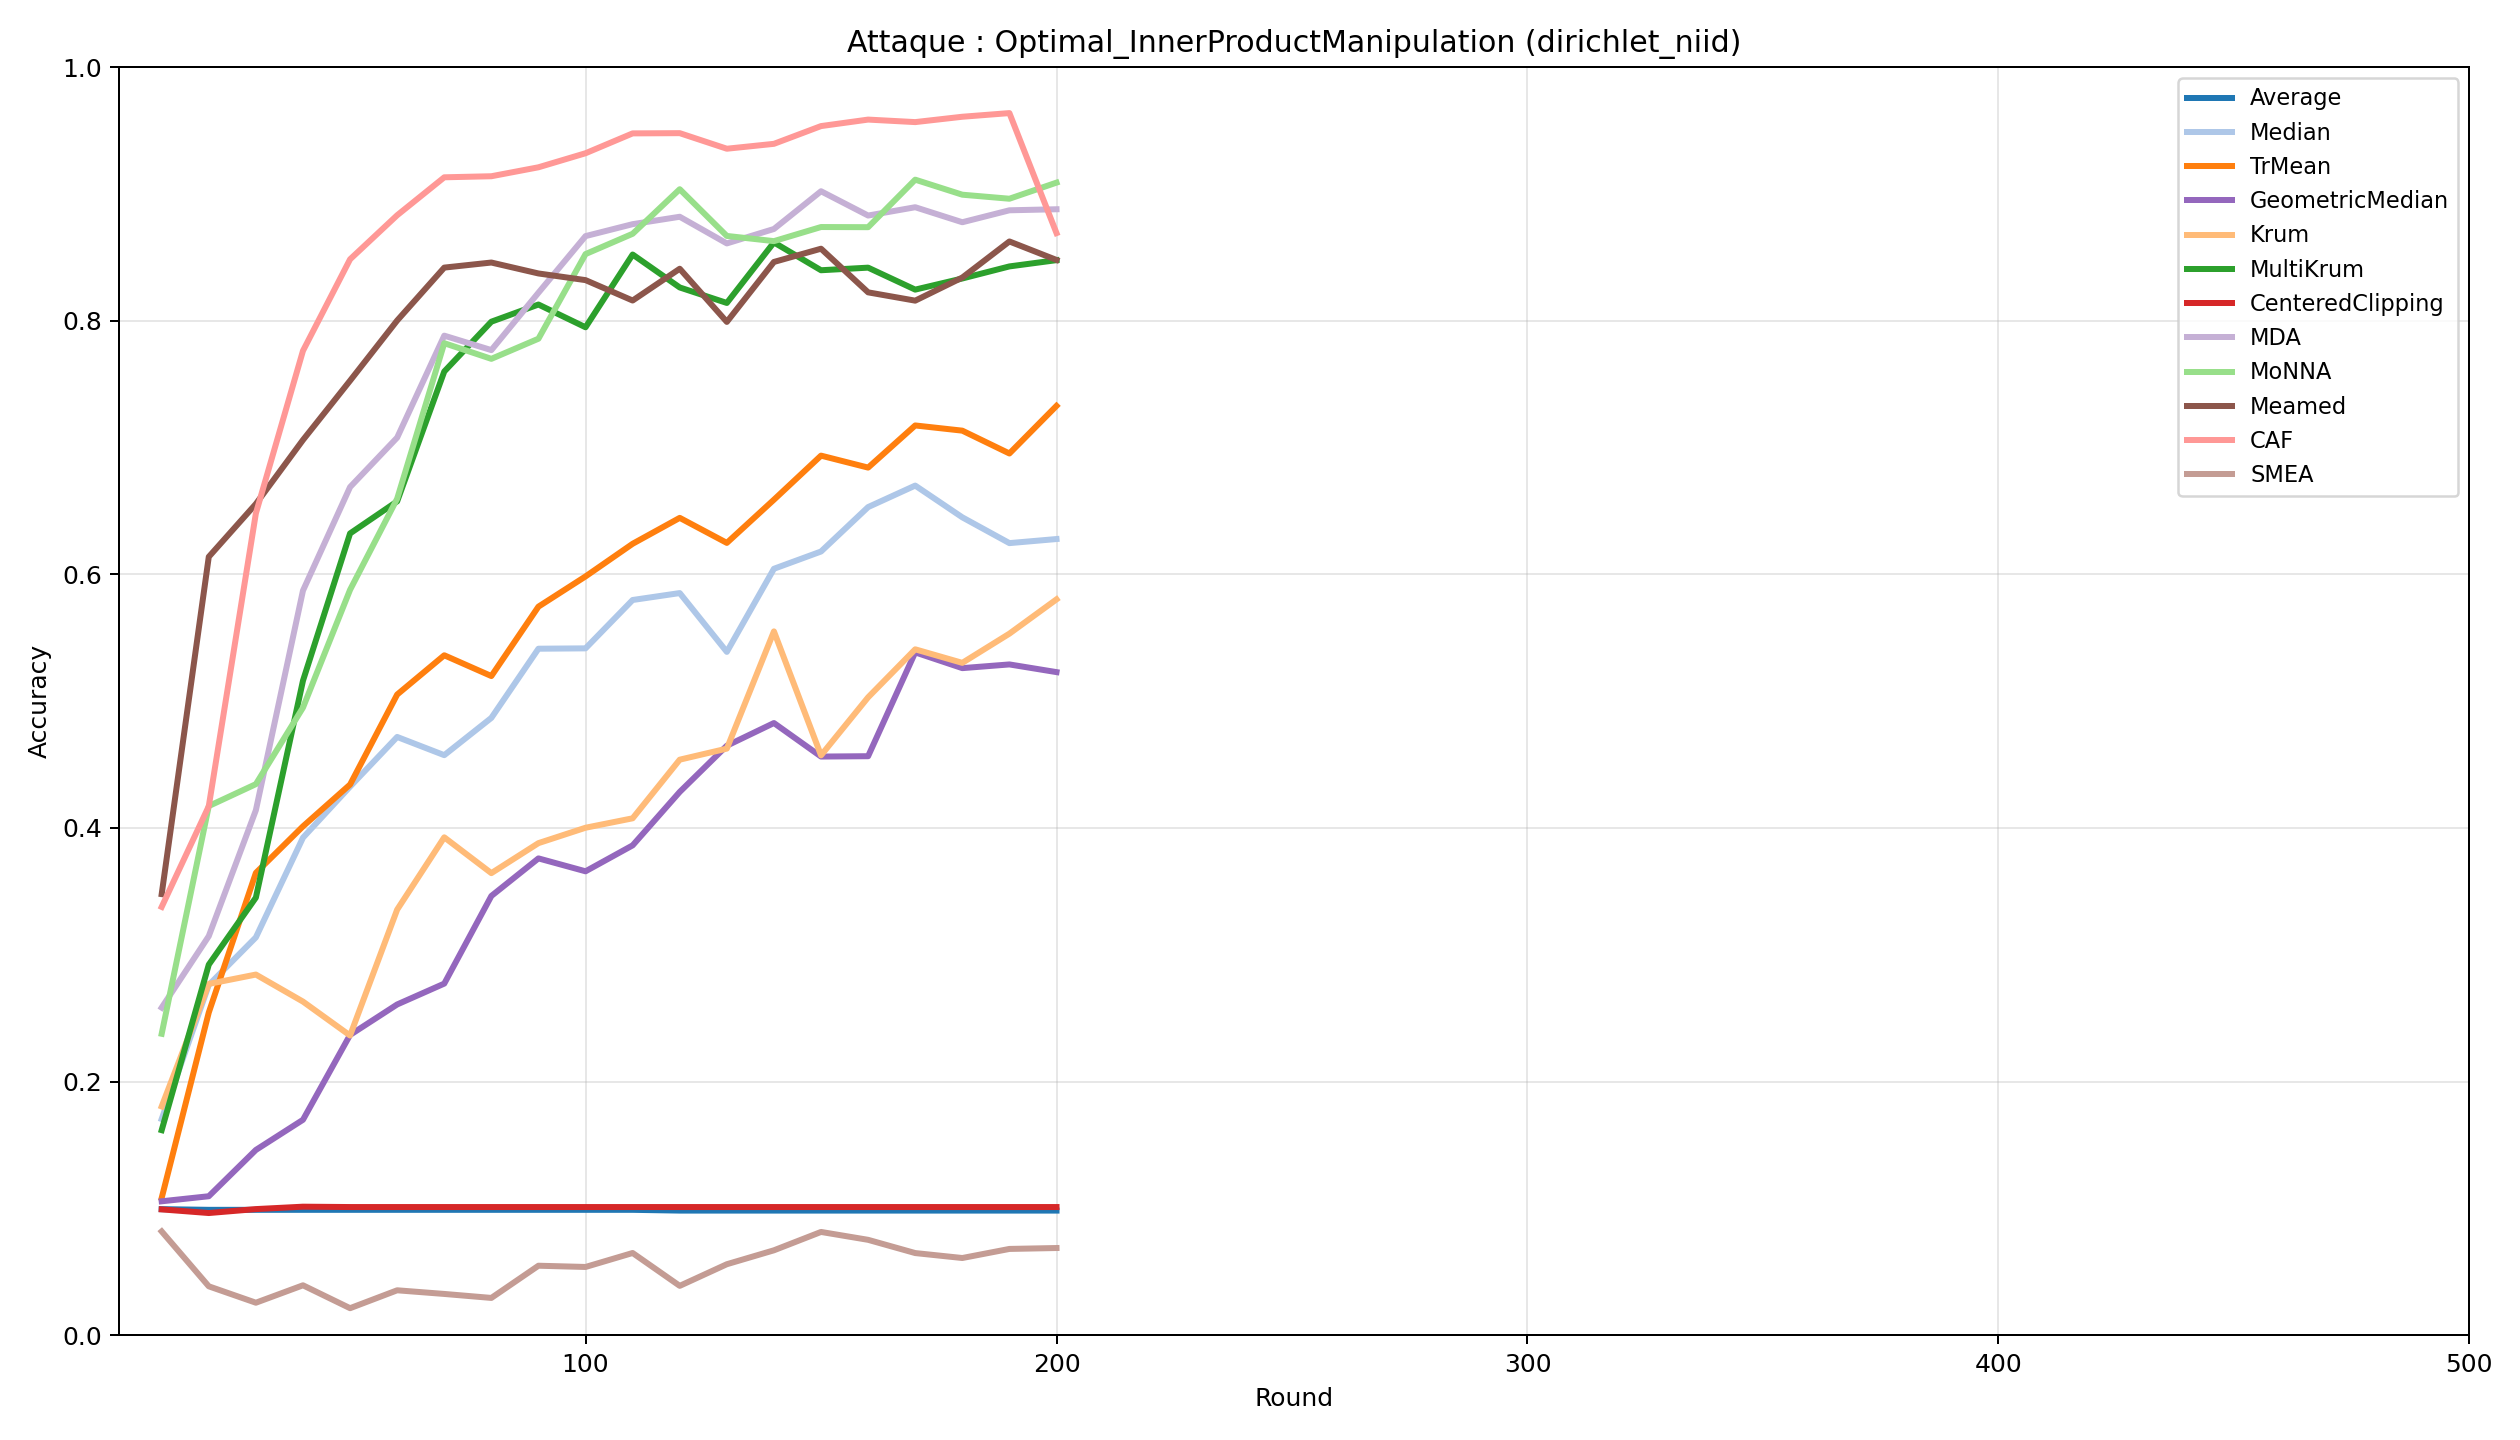
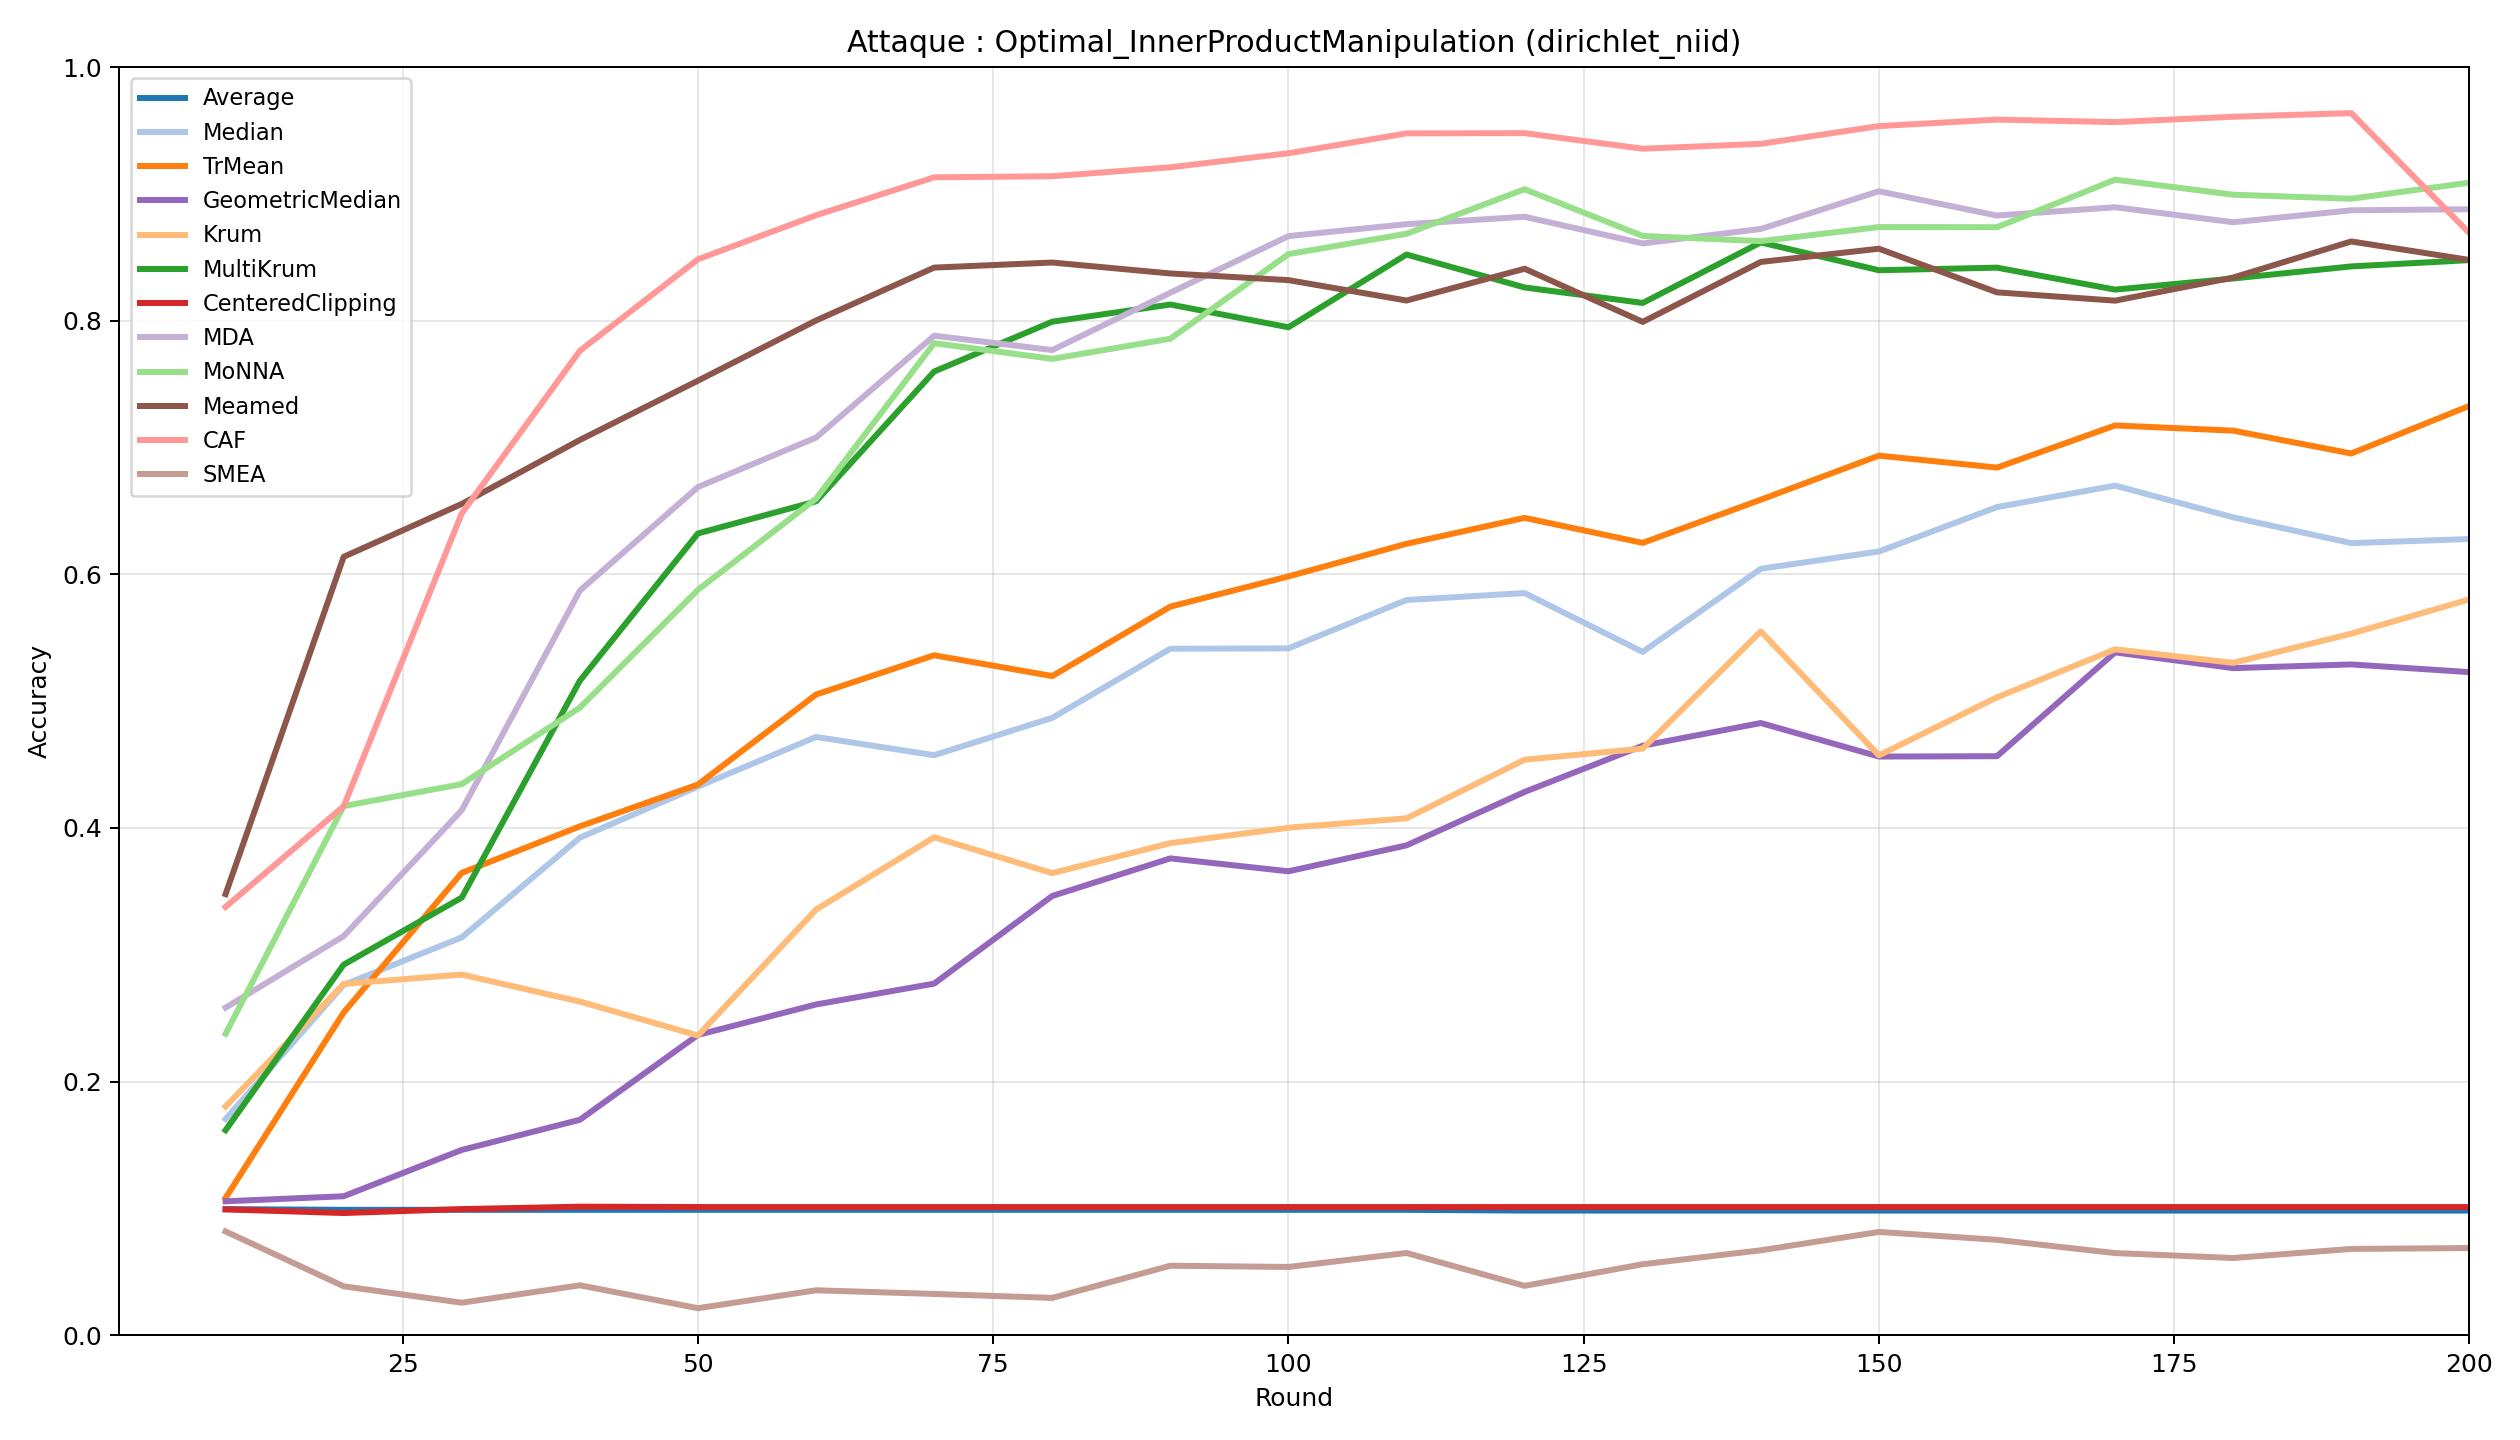
opt ipm en non iid sur 5 runs

diff --git a/code/comparer_attaques_agregateurs.py b/code/comparer_attaques_agregateurs.py
@@ -91,7 +91,7 @@ def plot_attack_curves(
     ax.set_xlabel("Round")
     ax.set_ylabel("Accuracy")
     ax.set_title(title_name)
-    ax.set_xlim(1, max(round_max, 2))
+    ax.set_xlim(1, max(round_max, 2))  # S'adaptera dynamiquement au max du groupe !
     ax.set_ylim(0.0, 1.0)
     ax.grid(True, alpha=0.3)
     ax.legend(fontsize=9, loc="best")
@@ -101,7 +101,7 @@ def plot_attack_curves(
 
 
 def summarize_attack(df: pd.DataFrame) -> pd.DataFrame:
-    # CORRECTION : On groupe aussi par la colonne 'distribution' pour éviter de mélanger les classements finaux
+    # Le .tail(1) va s'adapter automatiquement : il prendra le round 500 ou 200 selon ce qui existe pour ce groupe
     final_rounds = df.sort_values("round").groupby(["attack", "distribution", "aggregator"], as_index=False).tail(1)
     summary = final_rounds[
         ["attack", "distribution", "scenario", "aggregator", "round", "accuracy", "error", "nb_honest", "nb_byz"]
@@ -133,7 +133,6 @@ def main() -> None:
     if missing_columns:
         raise SystemExit(f"CSV incomplet, colonnes manquantes : {', '.join(sorted(missing_columns))}")
 
-    round_max = int(df["round"].max()) if not df.empty else 1
     aggregators = ordered_aggregators(df)
     color_map = build_color_map(aggregators)
 
@@ -141,18 +140,23 @@ def main() -> None:
     summary_csv = output_dir / "resume_par_attaque.csv"
     summary.to_csv(summary_csv, index=False)
 
-    # CORRECTION CRITIQUE :On groupe par couple (attack, distribution)
+    # On boucle sur chaque couple (attack, distribution)
     for (attack_name, dist_name), df_group in df.groupby(["attack", "distribution"], sort=False):
         clean_attack = sanitize_name(attack_name)
         clean_dist = sanitize_name(dist_name)
         
+        # === LA MAGIE SE PASSE ICI ===
+        # Au lieu d'une limite globale, on regarde le round max UNIQUE à ce graphique précis.
+        group_round_max = int(df_group["round"].max()) if not df_group.empty else 1
+        # =============================
+        
         plot_path = output_dir / f"courbe_{clean_attack}_{clean_dist}_agregateurs.png"
         title = f"Attaque : {attack_name} ({dist_name})"
         
-        plot_attack_curves(df_group, title, plot_path, color_map, round_max)
-        print(f"Courbe enregistrée : {plot_path}")
+        # On passe la limite sur mesure à la fonction de dessin
+        plot_attack_curves(df_group, title, plot_path, color_map, group_round_max)
+        print(f"Courbe enregistrée : {plot_path} (Axe X calé sur {group_round_max} rounds)")
 
-    # CORRECTION SYNTHÈSE : Sélection du meilleur par couple Attaque + Distribution
     best_by_context = summary.sort_values(["attack", "distribution", "accuracy"], ascending=[True, True, False]).groupby(["attack", "distribution"], as_index=False).head(1)
     best_csv = output_dir / "meilleur_agregateur_par_attaque.csv"
     best_by_context.to_csv(best_csv, index=False)
